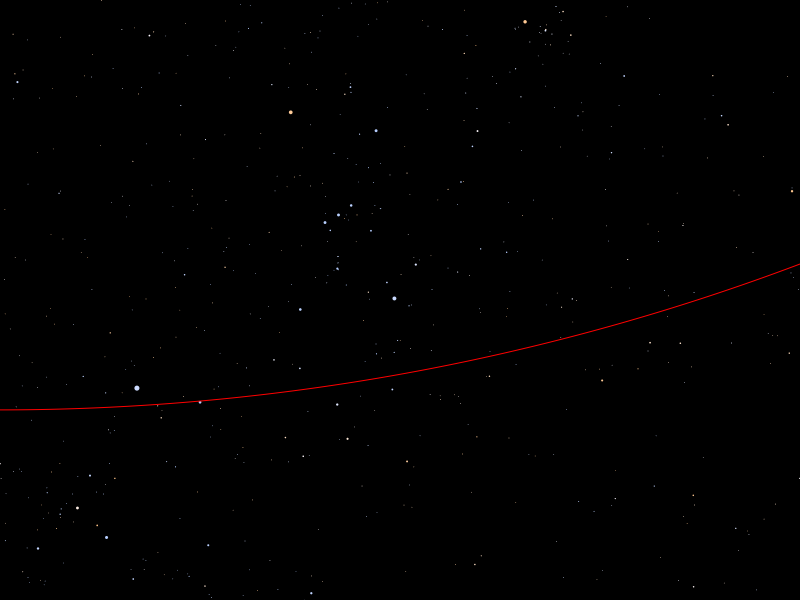
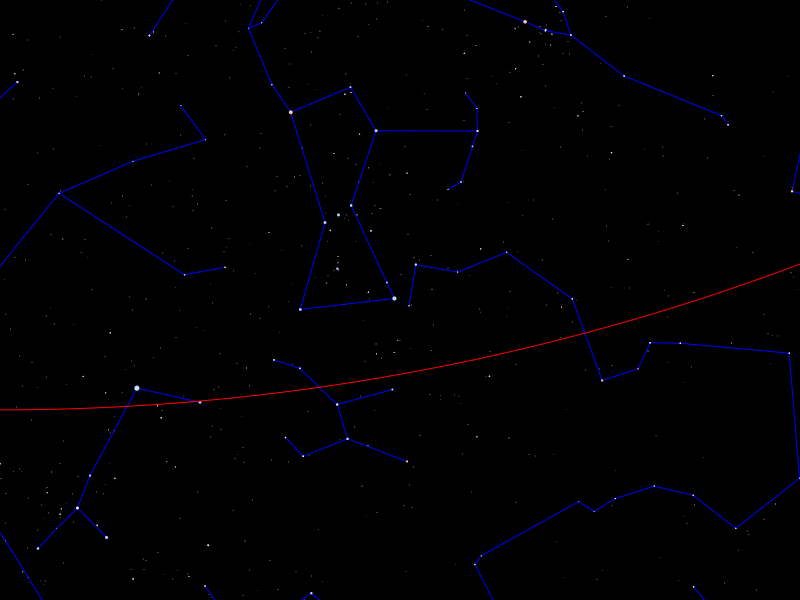
j

diff --git a/src/ch/epfl/rigel/gui/SkyCanvasPainter.java b/src/ch/epfl/rigel/gui/SkyCanvasPainter.java
@@ -66,23 +66,29 @@ public class SkyCanvasPainter { //classe instanciable //TODO Instanciable = Fina
         Set<Asterism> asterismSet = sky.asterisms();
         ctx.setStroke(Color.BLUE);
         for (Asterism asterism : asterismSet){
-            ctx.beginPath();
             List<Integer> indiceList = sky.asterismIndices(asterism);
-            int counter = 0;
-            for (int indice : indiceList){
-                int nextIndice = indiceList.get(counter+1);
-                boolean indiceIsInCanvas = canvas.getBoundsInLocal().contains(starPos[2*indice], starPos[2*indice+1]);
-                boolean nextIndiceIsInCanvas = canvas.getBoundsInLocal().contains(starPos[2*nextIndice], starPos[2*nextIndice+1]);
-                if (!indiceIsInCanvas && !nextIndiceIsInCanvas){
-                    ctx.moveTo(starPos[2*nextIndice], starPos[2*nextIndice+1]);
+            double x0 = starPos[2*indiceList.get(0)];
+            double y0 = starPos[2*indiceList.get(0)+1];
+            ctx.beginPath();
+            ctx.moveTo(x0, y0);
 
+            int counter = 0;
+            for (int indice : indiceList.subList(0,indiceList.size()-1)){
+                int nextIndice = indiceList.get(counter+1);
+                double x1 = starPos[2*indice];
+                double y1 = starPos[2*indice+1];
+                double x2 = starPos[2*nextIndice];
+                double y2 = starPos[2*nextIndice+1];
+
+                //TODO not sure if working bc test context (time and place) is not propice for check
+                if (canvas.getBoundsInLocal().contains(x1,y1) || canvas.getBoundsInLocal().contains(x2,y2)){
+                    ctx.lineTo(x2, y2);
                 } else {
-                    ctx.lineTo(starPos[2*nextIndice], starPos[2*nextIndice+1]);
-                    ctx.stroke();
+                    ctx.moveTo(x2,y2);
                 }
-                ctx.stroke();
                 counter++;
             }
+            ctx.stroke();
         }
 
 
@@ -174,7 +180,9 @@ public class SkyCanvasPainter { //classe instanciable //TODO Instanciable = Fina
         double diam = 2*projection.circleRadiusForParallel(parallel);
         double diamTransformed = planeToCanvas.deltaTransform(diam,0).getX();
         ctx.setStroke(Color.RED);
-        ctx.strokeOval((centerTransformed.getX()-diamTransformed*0.5), (centerTransformed.getY()-diamTransformed*0.5), diamTransformed, diamTransformed);
+        double x = centerTransformed.getX()-diamTransformed*0.5;
+        double y =  centerTransformed.getY()-diamTransformed*0.5;
+        ctx.strokeOval(x,y, diamTransformed, diamTransformed);
     }
 
     static double objectDiameter(double magn, double multiplyFactor){ //TODO put in private at the end, now cannot cause test
